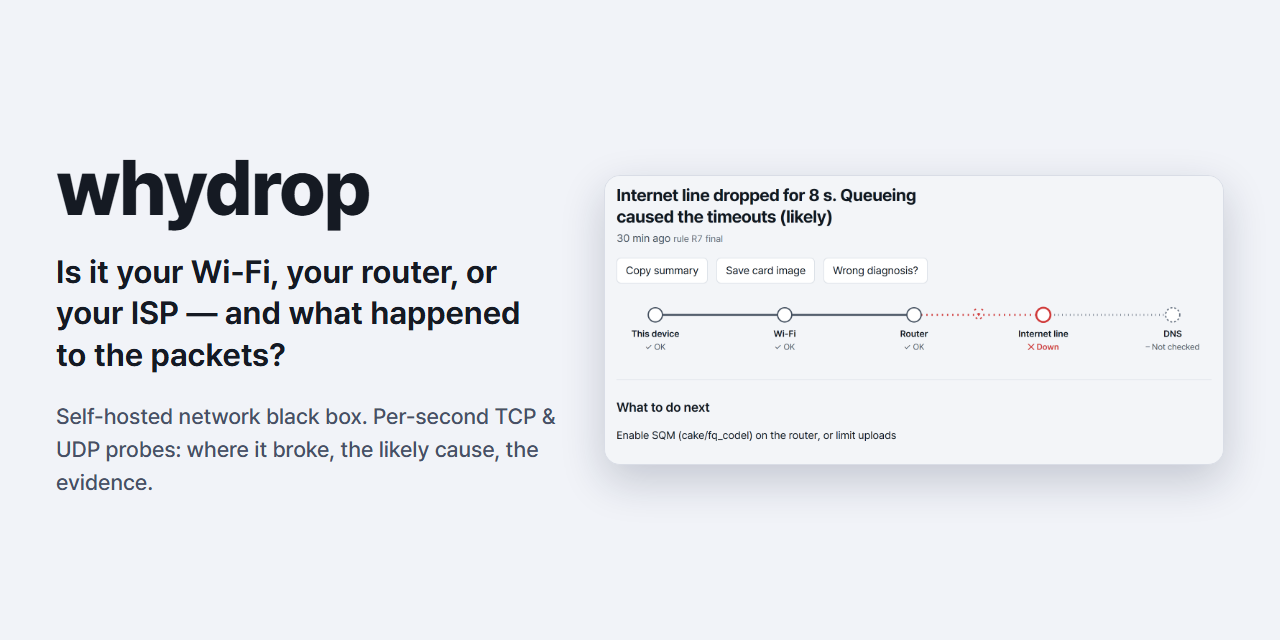
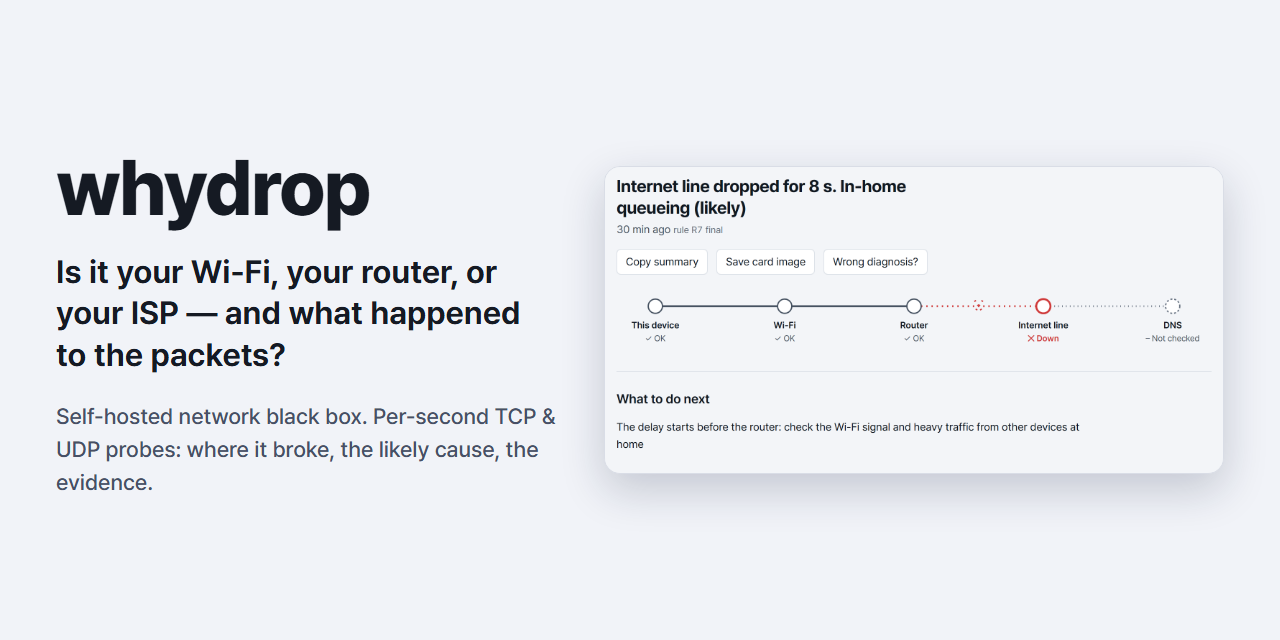
demo: show today's verdict for the 8 s stall (in-home queueing)
The demo was exported before the in-home fix, so its one drop still read
"queueing caused the timeouts, enable SQM" - the verdict docs/ai-process
records as wrong. Incident 38 now carries the cause a replay with the current
analysis gives, the rest of its evidence unchanged; GIFs and social preview
re-recorded from it.

diff --git a/README.md b/README.md
@@ -6,7 +6,7 @@
 
 whydrop is a self-hosted black box for a home connection. It probes every second over TCP and UDP, so it is built to catch even 3-second drops, and for each drop it tells you **where** on the path it broke, the **likely cause**, and what TCP and UDP did meanwhile.
 
-[![The live demo: the path, the verdict for an 8-second line drop, and its ±60 s packet timeline](https://raw.githubusercontent.com/YHK0427/whydrop/main/docs/media/demo.gif)](https://yhk0427.github.io/whydrop/)
+[![The live demo: the path, the verdict for an 8-second drop, and its ±60 s packet timeline](https://raw.githubusercontent.com/YHK0427/whydrop/main/docs/media/demo.gif)](https://yhk0427.github.io/whydrop/)
 
 Three verdicts, worded as its alerts word them (durations made up):
 

diff --git a/README.ko.md b/README.ko.md
@@ -6,7 +6,7 @@
 
 whydrop은 집 인터넷을 위한 셀프호스트 블랙박스예요. TCP와 UDP로 1초마다 확인하기 때문에 3초짜리 끊김도 잡도록 만들었고, 끊길 때마다 경로의 **어디서** 끊겼는지, **추정 원인**이 무엇인지, 그동안 TCP와 UDP가 무엇을 했는지 알려 줘요.
 
-[![라이브 데모: 경로 그림, 8초 회선 끊김의 판정, ±60초 패킷 타임라인](docs/media/demo.ko.gif)](https://yhk0427.github.io/whydrop/)
+[![라이브 데모: 경로 그림, 8초 끊김의 판정, ±60초 패킷 타임라인](docs/media/demo.ko.gif)](https://yhk0427.github.io/whydrop/)
 
 이런 판정을 내려요(원인 이름과 다음 할 일은 대시보드의 실제 문구, 시간은 예시):
 
